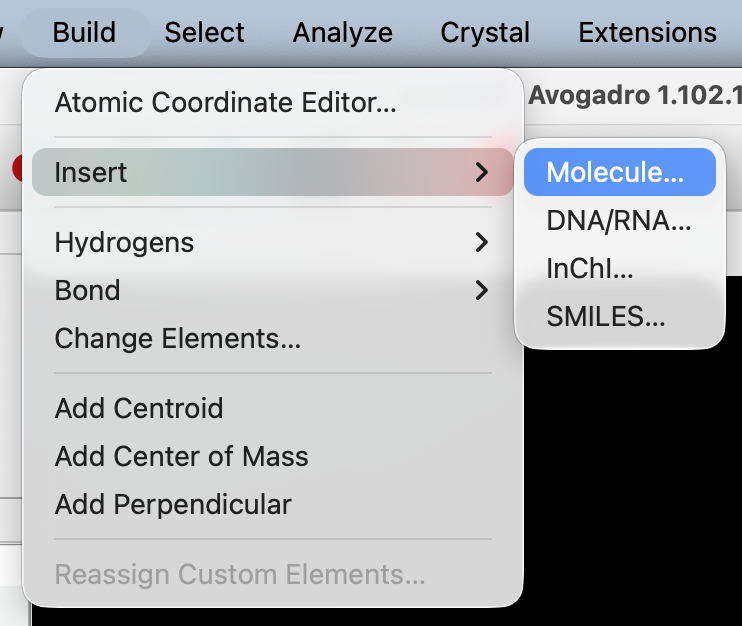
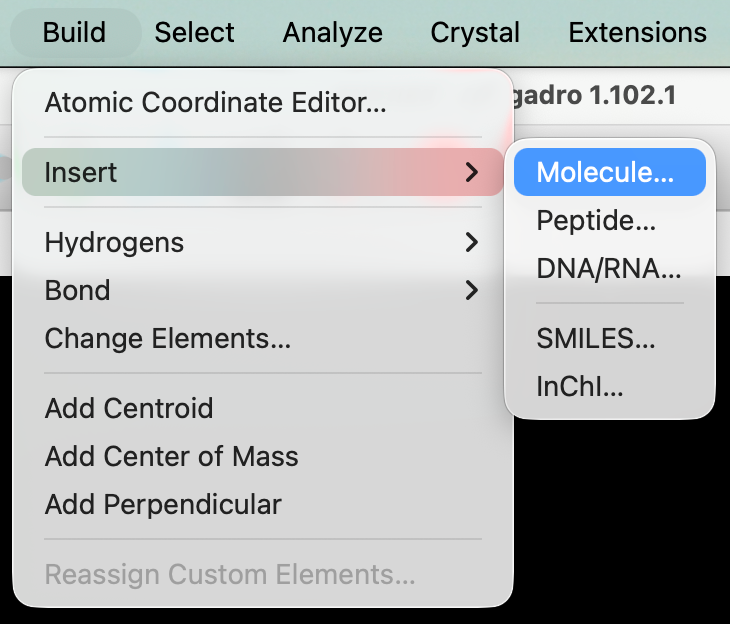
Update some screenshots for new menu UI, add peptide builder

diff --git a/source/docs/building-molecules/building-peptides.md b/source/docs/building-molecules/building-peptides.md
@@ -1,0 +1,29 @@
+(building-molecules-dna)=
+
+# Building DNA or RNA
+
+Avogadro has a builder for nucleic acid sequences and this walk-through will show you how to use it.
+
+![](../../_static/build-dna.png)
+
+The DNA/RNA builder is under the "Build" menu and "Insert" submenu.
+
+![](../../_static/media_1340331923310.png)
+
+Select either DNA or RNA \(1\) and the rest of the window will update accordingly.
+
+![](../../_static/media_1340331942795.png)
+
+You can also control the number of bases per turn as shown \(with defaults for A-DNA, B-DNA, Z-DNA, or RNA\).
+
+![](../../_static/media_1340331963717.png)
+
+You can enter the sequence either by clicking the buttons, or by typing the one-letter codes directly. For DNA sequences \(as shown here\), you can insert either single-stranded or double-stranded DNA.
+
+![](../../_static/view-center.png)
+
+You may wish to re-center the view or align the view to axes to see the whole molecule. If needed, switch to the [Navigate Tool](tools-navigation-tool)
+
+![](../../_static/dna.png)
+
+There we go -- the well-known DNA double-helix!
